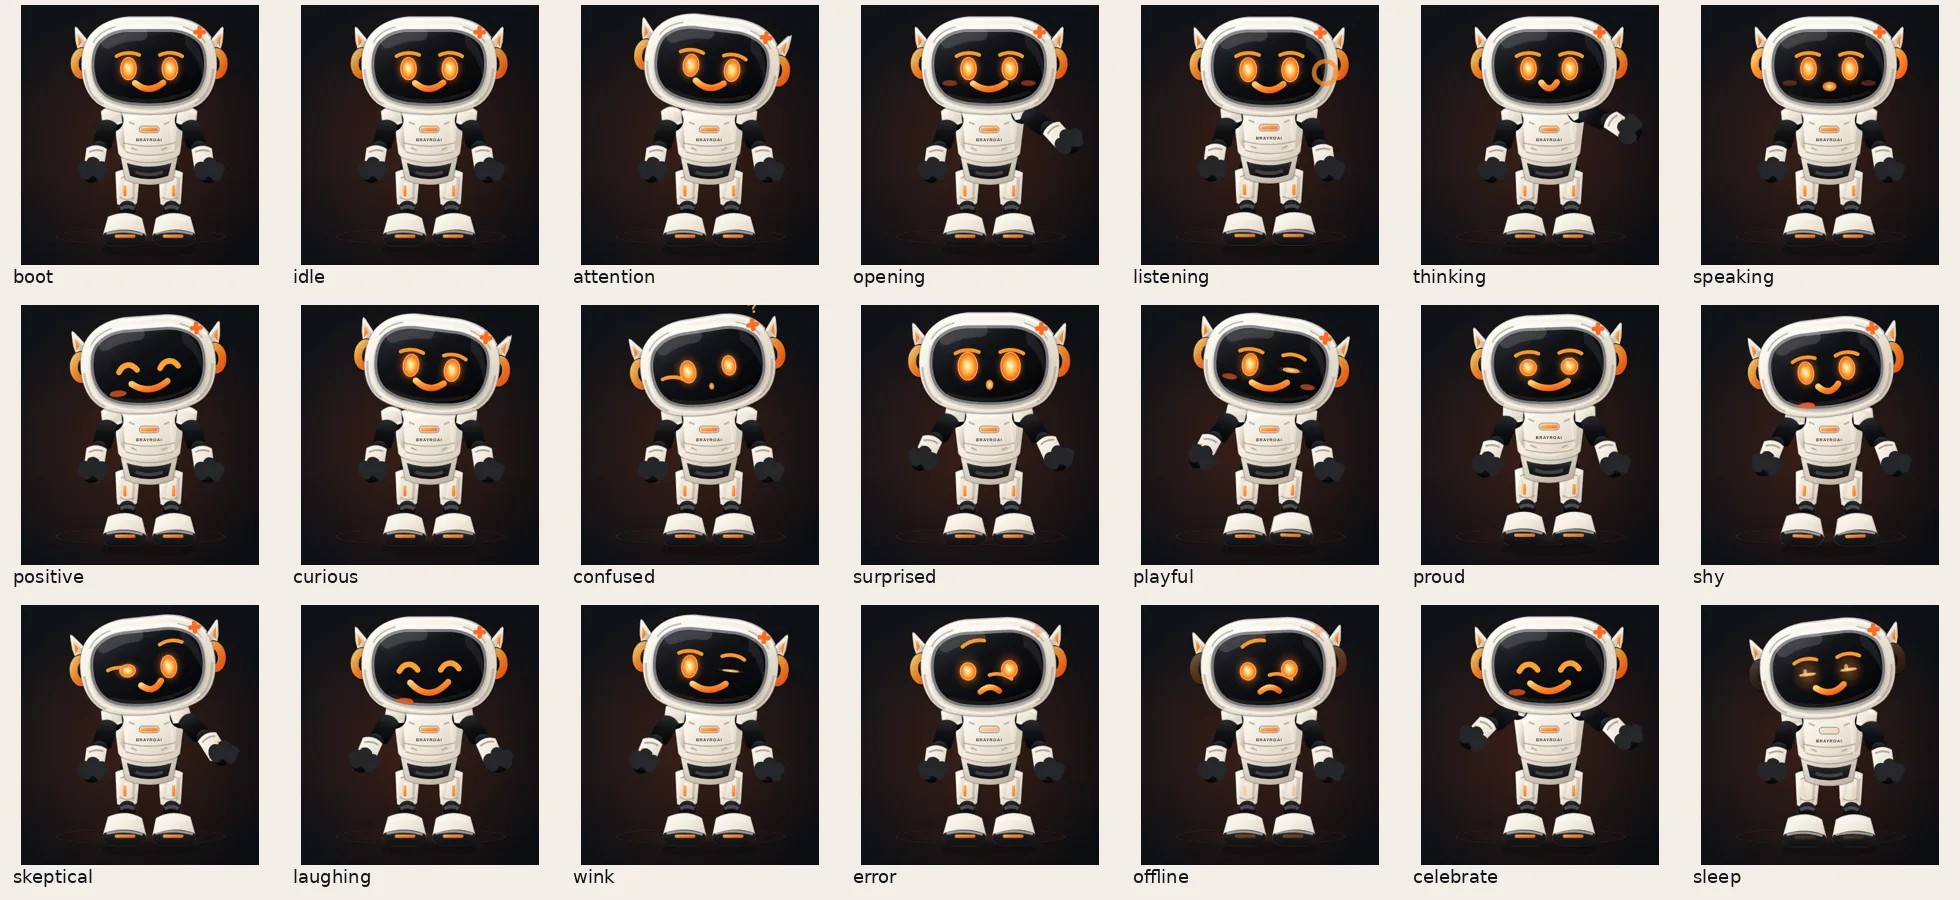
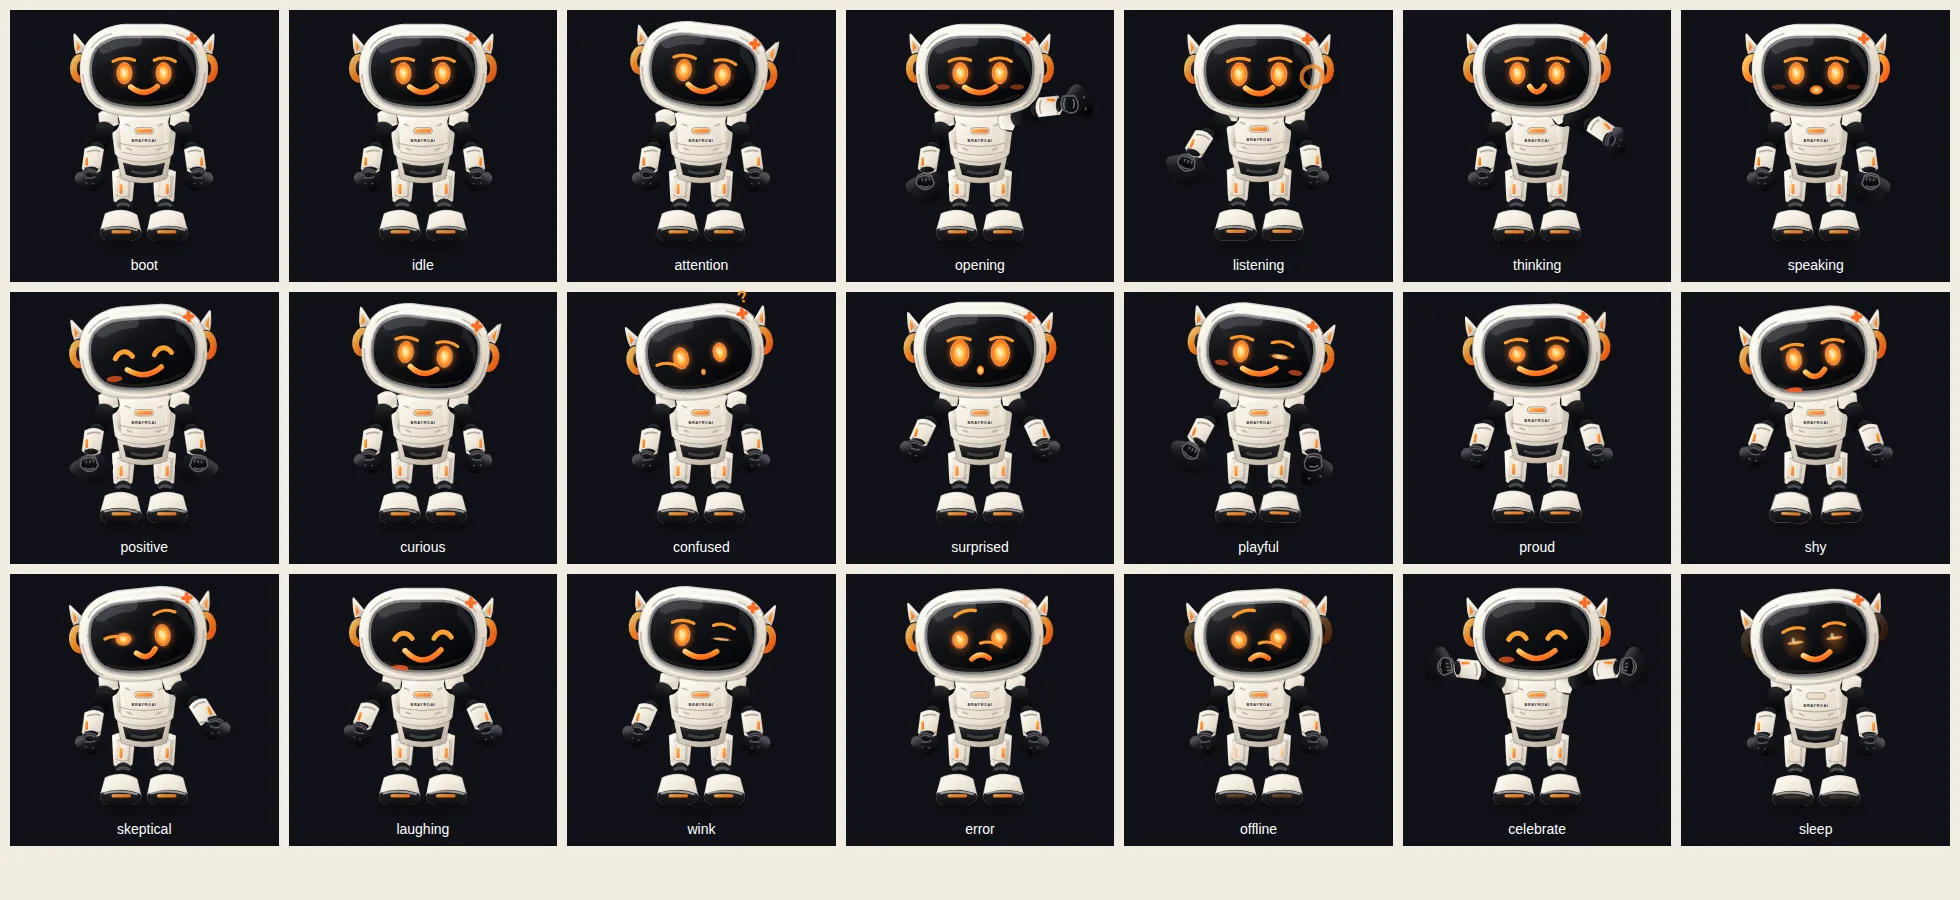
Articulate Rae's SVG gloves and greeting poses

diff --git a/public/rae/rae-character.js b/public/rae/rae-character.js
@@ -95,8 +95,18 @@ export const characterMarkup = (variant = 'stage') => {
         <path d="M87 390q21 14 43 2M94 353q19-9 35-2" fill="none" stroke="#8d8073" stroke-width="1.7" opacity=".62"/>
         <rect class="rae-character__arm-light" x="90" y="365" width="7" height="23" rx="3.5" fill="url(#${id}Orange)"/>
         <g class="rae-character__hand rae-character__hand--l">
-          <ellipse cx="100" cy="410" rx="20" ry="17" fill="url(#${id}Ink)"/>
-          <path class="rae-character__finger" d="M89 407Q79 401 80 391Q81 384 87 387L96 398M99 398L100 382Q101 374 107 378L109 399M111 401L120 390Q125 384 129 390L121 408" fill="none" stroke="#24262a" stroke-width="9" stroke-linecap="round"/>
+          <ellipse cx="105" cy="397" rx="18" ry="8" fill="url(#${id}Joint)"/>
+          <g class="rae-character__glove rae-character__glove--rest">
+            <path d="M84 400Q100 391 117 400L122 416Q119 429 105 433Q88 434 80 421Z" fill="url(#${id}Ink)" stroke="#55545a" stroke-width="1.3"/>
+            <path class="rae-character__finger" d="M83 416Q77 412 75 415Q71 420 78 425L87 430M91 425Q90 438 96 441Q102 442 103 434M104 426Q104 442 111 442Q117 439 115 428M116 420Q123 433 128 428Q132 424 124 416" fill="none" stroke="url(#${id}Joint)" stroke-width="8" stroke-linecap="round"/>
+            <path d="M88 405q15-8 27 1M91 417q14 4 25-2" fill="none" stroke="#8d8b90" stroke-width="1.5" opacity=".55"/>
+            <path d="M91 430l4 3m13 1 4-2" fill="none" stroke="#b6b2af" stroke-width="1" opacity=".65"/>
+          </g>
+          <g class="rae-character__glove rae-character__glove--open">
+            <path class="rae-character__finger" d="M84 424L66 434Q59 438 63 443Q68 447 74 442L86 436M90 434L78 454Q74 461 80 464Q86 467 90 460L99 441M101 438L95 463Q93 471 100 472Q106 472 108 463L109 442M111 437L116 461Q118 469 125 467Q131 465 127 457L119 433M118 424L136 441Q142 447 148 442Q153 437 146 431L124 415" fill="none" stroke="url(#${id}Joint)" stroke-width="9" stroke-linecap="round" stroke-linejoin="round"/>
+            <path d="M82 412Q99 402 116 412L123 433Q115 447 101 448Q86 446 77 432Z" fill="url(#${id}Ink)" stroke="#66646a" stroke-width="1.5"/>
+            <path d="M84 417q13-8 29-2M88 438q13 8 25 0M93 420v7m9-8v8m9-10v8" fill="none" stroke="#a7a2a0" stroke-width="1.4" opacity=".58"/>
+          </g>
         </g>
       </g>
       <g class="rae-character__arm rae-character__arm--r">
@@ -109,8 +119,25 @@ export const characterMarkup = (variant = 'stage') => {
         <path d="M352 393q20 12 42-1M351 353q18-9 35-2" fill="none" stroke="#8d8073" stroke-width="1.7" opacity=".62"/>
         <rect class="rae-character__arm-light" x="383" y="365" width="7" height="23" rx="3.5" fill="url(#${id}Orange)"/>
         <g class="rae-character__hand rae-character__hand--r">
-          <ellipse cx="381" cy="410" rx="20" ry="17" fill="url(#${id}Ink)"/>
-          <path class="rae-character__finger" d="M369 408Q360 402 361 393Q362 386 368 389L377 400M381 399L382 383Q383 375 389 379L391 400M392 402L401 392Q406 386 410 392L402 410" fill="none" stroke="#24262a" stroke-width="9" stroke-linecap="round"/>
+          <ellipse cx="375" cy="397" rx="18" ry="8" fill="url(#${id}Joint)"/>
+          <g transform="translate(480 0) scale(-1 1)">
+            <g class="rae-character__glove rae-character__glove--rest">
+              <path d="M84 400Q100 391 117 400L122 416Q119 429 105 433Q88 434 80 421Z" fill="url(#${id}Ink)" stroke="#55545a" stroke-width="1.3"/>
+              <path class="rae-character__finger" d="M83 416Q77 412 75 415Q71 420 78 425L87 430M91 425Q90 438 96 441Q102 442 103 434M104 426Q104 442 111 442Q117 439 115 428M116 420Q123 433 128 428Q132 424 124 416" fill="none" stroke="url(#${id}Joint)" stroke-width="8" stroke-linecap="round"/>
+              <path d="M88 405q15-8 27 1M91 417q14 4 25-2" fill="none" stroke="#8d8b90" stroke-width="1.5" opacity=".55"/>
+              <path d="M91 430l4 3m13 1 4-2" fill="none" stroke="#b6b2af" stroke-width="1" opacity=".65"/>
+            </g>
+            <g class="rae-character__glove rae-character__glove--open">
+              <path class="rae-character__finger" d="M84 424L66 434Q59 438 63 443Q68 447 74 442L86 436M90 434L78 454Q74 461 80 464Q86 467 90 460L99 441M101 438L95 463Q93 471 100 472Q106 472 108 463L109 442M111 437L116 461Q118 469 125 467Q131 465 127 457L119 433M118 424L136 441Q142 447 148 442Q153 437 146 431L124 415" fill="none" stroke="url(#${id}Joint)" stroke-width="9" stroke-linecap="round" stroke-linejoin="round"/>
+              <path d="M82 412Q99 402 116 412L123 433Q115 447 101 448Q86 446 77 432Z" fill="url(#${id}Ink)" stroke="#66646a" stroke-width="1.5"/>
+              <path d="M84 417q13-8 29-2M88 438q13 8 25 0M93 420v7m9-8v8m9-10v8" fill="none" stroke="#a7a2a0" stroke-width="1.4" opacity=".58"/>
+            </g>
+            <g class="rae-character__glove rae-character__glove--peace">
+              <path d="M86 424L67 436Q61 440 65 445Q70 449 77 443L88 436M91 416L79 460Q77 468 84 470Q91 470 93 463L103 430M103 418L107 465Q108 472 115 471Q122 469 120 462L116 428" fill="none" stroke="url(#${id}Joint)" stroke-width="10" stroke-linecap="round" stroke-linejoin="round"/>
+              <path d="M82 407Q99 397 117 407L124 425Q126 439 113 445Q95 449 80 435Z" fill="url(#${id}Ink)" stroke="#66646a" stroke-width="1.4"/>
+              <path d="M86 413q15-7 29-1M88 432q12 7 24 2M81 460l5 1m23 5 6-1" fill="none" stroke="#a9a5a2" stroke-width="1.4" opacity=".68"/>
+            </g>
+          </g>
         </g>
       </g>
     </g>

diff --git a/public/rae/rae-character-v2.css b/public/rae/rae-character-v2.css
@@ -29,6 +29,13 @@
 .rae-character[data-rae-rig="v3"] .rae-character__spark path{fill:none;stroke:#ff6a20;stroke-width:4;stroke-linecap:round}
 .rae-character[data-rae-rig="v3"] .rae-character__brand-mark{paint-order:stroke;stroke:#fff7ed;stroke-width:.45}.rae-character[data-rae-rig="v3"] .rae-character__brow,.rae-character[data-rae-rig="v3"] .rae-character__lid{stroke:#ff9a26}.rae-character[data-rae-rig="v3"] .rae-character__art{pointer-events:none}
 .rae-character[data-rae-rig="v3"] .rae-character__visor-rim{opacity:.46}
+.rae-character[data-rae-rig="v3"] :is(.rae-character__glove--open,.rae-character__glove--peace){opacity:0;visibility:hidden}
+.rae-character[data-rae-rig="v3"]:is([data-state="opening"],[data-state="celebrate"],[data-state="positive"],[data-state="playful"]) .rae-character__glove--rest{opacity:0;visibility:hidden}
+.rae-character[data-rae-rig="v3"]:is([data-state="opening"],[data-state="celebrate"],[data-state="positive"],[data-state="playful"]) .rae-character__glove--open{opacity:1;visibility:visible}
+.rae-character[data-rae-rig="v3"]:is([data-state="opening"],[data-state="playful"]) .rae-character__hand--r .rae-character__glove--open{opacity:0;visibility:hidden}
+.rae-character[data-rae-rig="v3"]:is([data-state="opening"],[data-state="playful"]) .rae-character__glove--peace{opacity:1;visibility:visible}
+.rae-character[data-rae-rig="v3"][data-state="listening"] .rae-character__hand--l .rae-character__glove--rest,.rae-character[data-rae-rig="v3"][data-state="speaking"] .rae-character__hand--r .rae-character__glove--rest{opacity:0;visibility:hidden}
+.rae-character[data-rae-rig="v3"][data-state="listening"] .rae-character__hand--l .rae-character__glove--open,.rae-character[data-rae-rig="v3"][data-state="speaking"] .rae-character__hand--r .rae-character__glove--open{opacity:1;visibility:visible}
 
 /* Variant framing: launcher/header show the expressive head + upper torso; stage shows the full robot. */
 .rae-character--launcher[data-rae-rig="v3"]{width:3.15rem;height:3.15rem}.rae-character--header[data-rae-rig="v3"]{width:3.5rem;height:3.5rem}.rae-character--stage[data-rae-rig="v3"]{width:10.5rem;height:10.5rem}
@@ -42,13 +49,14 @@
 .rae-character[data-rae-rig="v3"][data-state="attention"] .rae-character__spark,.rae-character[data-rae-rig="v3"][data-state="curious"] .rae-character__spark{animation:raeV3SparkNotice .75s var(--rae-ease)}
 
 /* Opening = proper friendly wave, not a generic scale animation. */
-.rae-character[data-rae-rig="v3"][data-state="opening"] .rae-character__arm--r{transform:translate(-10px,-20px) rotate(-34deg)}
+.rae-character[data-rae-rig="v3"][data-state="opening"] .rae-character__arm--r{transform:translate(-8px,-15px) rotate(-88deg)}
 .rae-character[data-rae-rig="v3"][data-state="opening"] .rae-character__hand--r{animation:raeV3Wave .58s var(--rae-ease) 2}
 .rae-character[data-rae-rig="v3"][data-state="opening"] .rae-character__mouth{transform:translateY(1px) scaleX(1.15)}
 .rae-character[data-rae-rig="v3"][data-state="opening"] .rae-character__cheek{opacity:.48}
 
 /* Listening leans toward the visitor. */
 .rae-character[data-rae-rig="v3"][data-state="listening"] .rae-character__body{transform:translateY(-2px) scale(1.012)}
+.rae-character[data-rae-rig="v3"][data-state="listening"] .rae-character__arm--l{transform:translate(10px,-15px) rotate(23deg)}
 .rae-character[data-rae-rig="v3"][data-state="listening"] .rae-character__head-wrap{transform:translateX(var(--rae-head-x)) translateY(3px) rotate(var(--rae-head-r)) scale(1.015)}
 .rae-character[data-rae-rig="v3"][data-state="listening"] .rae-character__ear-ring-light{animation:raeV3ListenPulse 1.15s ease-in-out infinite}
 .rae-character[data-rae-rig="v3"][data-state="listening"] .rae-character__eye-white{transform:scale(1.06)}
@@ -89,8 +97,8 @@
 
 /* Celebrate = full-body bounce and both arms up. */
 .rae-character[data-rae-rig="v3"][data-state="celebrate"]{animation:raeV3Celebrate .82s var(--rae-ease)}
-.rae-character[data-rae-rig="v3"][data-state="celebrate"] .rae-character__arm--l{transform:translate(12px,-28px) rotate(35deg)}
-.rae-character[data-rae-rig="v3"][data-state="celebrate"] .rae-character__arm--r{transform:translate(-12px,-28px) rotate(-35deg)}
+.rae-character[data-rae-rig="v3"][data-state="celebrate"] .rae-character__arm--l{transform:translate(7px,-18px) rotate(88deg)}
+.rae-character[data-rae-rig="v3"][data-state="celebrate"] .rae-character__arm--r{transform:translate(-7px,-18px) rotate(-88deg)}
 .rae-character[data-rae-rig="v3"][data-state="celebrate"] .rae-character__eye-white{transform:scaleY(.58) scaleX(1.12)}
 .rae-character[data-rae-rig="v3"][data-state="celebrate"] .rae-character__mouth{transform:translateY(3px) scale(1.35)}
 .rae-character[data-rae-rig="v3"][data-state="celebrate"] .rae-character__ear-ring-light,.rae-character[data-rae-rig="v3"][data-state="celebrate"] .rae-character__chest-light{animation:raeV3CelebrateLight .4s ease-in-out 2}

diff --git a/docs/AWARD_TRANSFORMATION_AUDIT_2026-09-27.md b/docs/AWARD_TRANSFORMATION_AUDIT_2026-09-27.md
@@ -52,7 +52,7 @@ The motion grammar is one principal motion verb per chapter, a short feedback sc
 
 The 3D actor was visibly flatter and less faithful than the supplied character sheet. It also swapped the character's appearance between desktop and mobile. Rae now uses the same original full-body SVG in every placement, with additional ceramic, glass, joint, panel, boot, and lighting geometry. The former Three.js renderer, 2 MB of vendored source, its CSS host, and its load path were removed. Chat transport, guidance, safe actions, and provider fallback remain intact.
 
-The user is right that the expression set needs deeper art direction. A twenty-state contact sheet was inspected. It exposed cheek shapes that could escape the visor and several mouths that lacked a distinct silhouette. The face is now clipped to the visor, with dedicated frown and open-mouth geometry rather than scaling one smile into every emotion. Legacy CSS was also overriding the SVG gradients and orange smile; the v3 rig now retains its own ceramic and light treatment. The [21-state rendered sheet](audit-captures-2026-09-27/rae-svg-21-states.webp) records every current face and static pose with reduced motion enabled. State changes still show their pose without running animation. Further work should improve the body and hand silhouette against the supplied sheet and test rapid normal-motion transitions without making the mobile SVG costly.
+The user is right that the expression set needs deeper art direction. A twenty-state contact sheet was inspected. It exposed cheek shapes that could escape the visor and several mouths that lacked a distinct silhouette. The face is now clipped to the visor, with dedicated frown and open-mouth geometry rather than scaling one smile into every emotion. Legacy CSS was also overriding the SVG gradients and orange smile; the v3 rig now retains its own ceramic and light treatment. A subsequent body pass replaced mitten marks with drawn glove shells and finger geometry. Greeting uses a two-finger gesture, listening and speaking use an open hand, and celebration lifts both articulated arms. The [updated 21-state rendered sheet](audit-captures-2026-09-27/rae-svg-21-states.webp) records every current face and static pose with reduced motion enabled. The mobile chat stage was also inspected at 390 px. Character details remain small at that size; further work should refine the hand silhouette and rapid normal-motion transitions without making the SVG costly.
 
 ## Open work before a release claim
 
